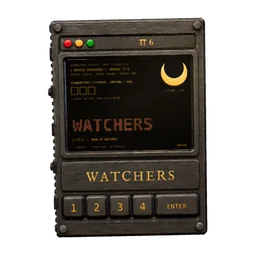
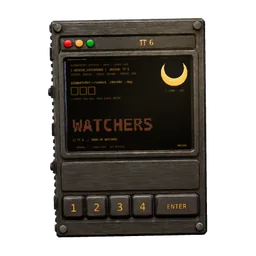
Remove the yellow nameplate above the Watchers controls.
The plate above the keys was drawn in JavaScript as WATCHERS in gold. It is left blank so the cover matches the rest of the panel. The screen text and the TT 6 badge at the top are unchanged.

diff --git a/relics/book11.js b/relics/book11.js
@@ -727,19 +727,7 @@ const PAGES = [{ cover: true }].concat(VERSES.map(function(t, i){ return { verse
     const w3 = g.measureText('6').width, x = (w - (wTT + gap + w3))/2;
     drawTT(g, x, base, cap); g.fillText('6', x + wTT + gap, base);
   });
-  plate(0.007, 0.2795, 0.430, 0.086, 0.1182, function(g, w, h){
-    const txt = 'WATCHERS'; let f = Math.round(h*0.86);
-    g.textBaseline = 'alphabetic'; g.textAlign = 'left';
-    let sp, total;
-    for (;; f -= 2){                                   // largest size that fits the plate between its rivets
-      g.font = f + "px " + HEAD; sp = f*0.11; total = -sp;
-      for (const ch of txt) total += g.measureText(ch).width + sp;
-      if (total <= w*0.93 || f < 20) break;
-    }
-    const m = g.measureText('B'), asc = m.actualBoundingBoxAscent || f*0.66;
-    let x = (w - total)/2; const base = h/2 + asc/2;
-    for (const ch of txt){ g.fillText(ch, x, base); x += g.measureText(ch).width + sp; }
-  });
+  // The plate above the control keys is left blank, to match the rest of the cover.
 
   // ---------- lights ----------
   scene.add(new THREE.AmbientLight(0x4a3f38, 0.55));
